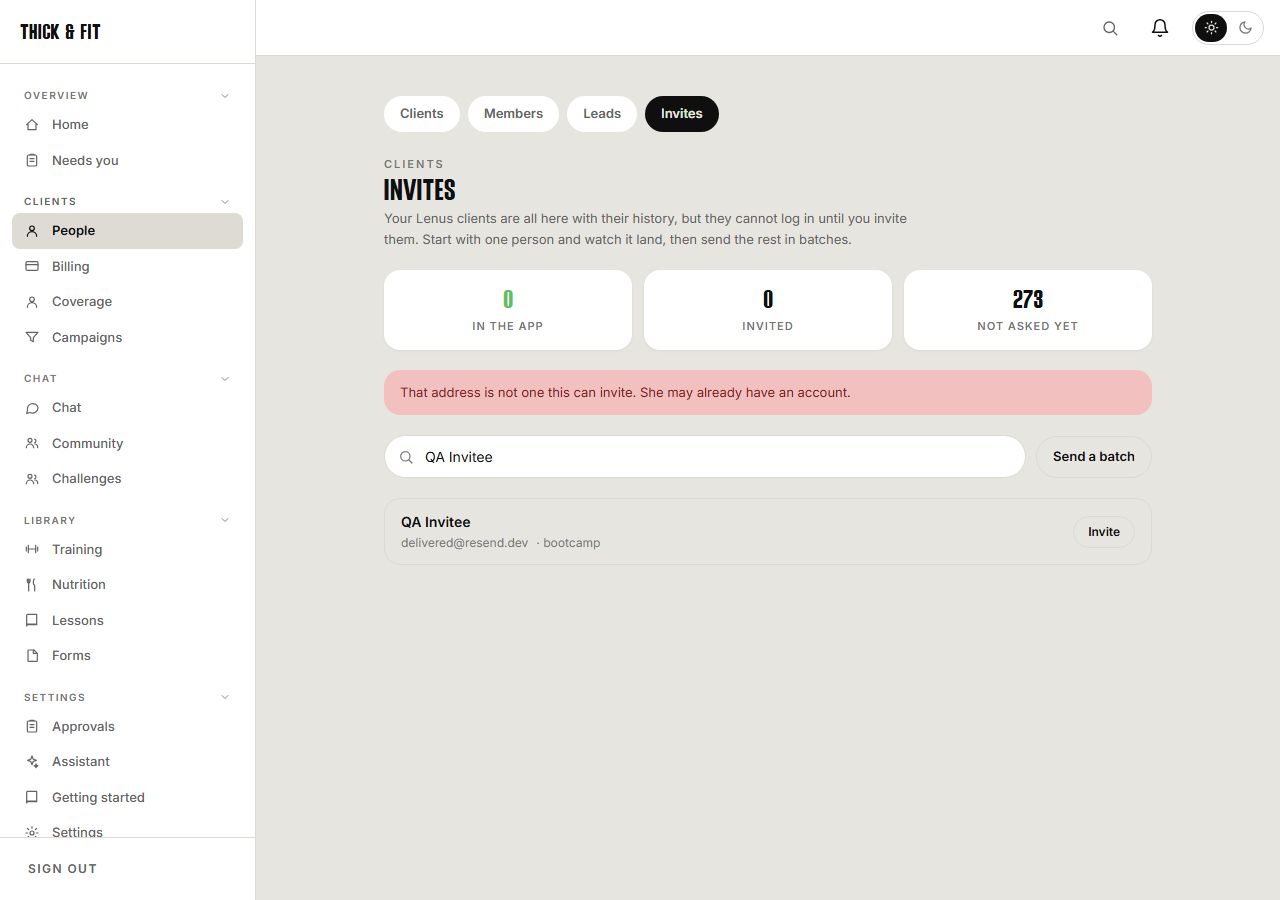
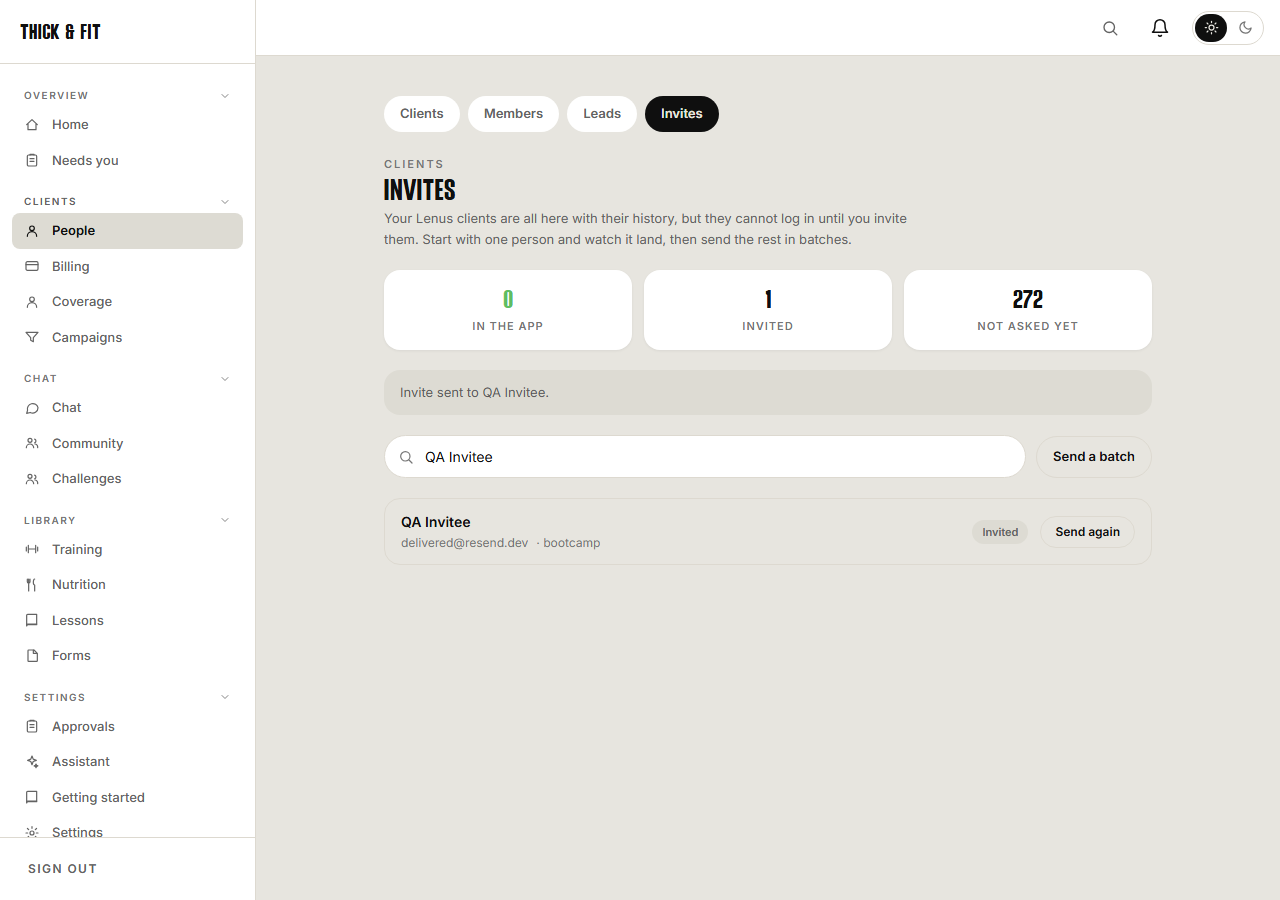
fix(audit): a launch action emailed a real client and recorded nobody
Testing the invite screen end to end surfaced this: the send genuinely worked, the email_send_log
row landed, the auth user was minted, and audit_log had NOTHING. The database trigger's own rows
from the same second landed normally, so the table was fine. The write was not.

logCoachAction is `void client.from(...).insert(...)`, the codebase's fire-and-forget convention.
That is fine for a log nobody will be asked about, and it is not fine on this platform for one
that matters: a floating promise created just before a serverless response returns can be killed
when the function freezes. This repo already learned that once (the `void notify()` pattern), and
the audit log is the one place it costs the most.

logCoachActionNow is the same write, awaited. One round trip. Used by both invite actions,
because "who emailed 272 clients, and how many" is exactly the question an audit log exists to
answer, and it is the Fort Knox anti-get-sued pillar this project is built to.

The existing fire-and-forget export stays for the cheap high-volume callers, now delegating to
the same function so the two cannot drift. Neither throws: an audit write that fails must not
take down the action it is recording, so it is loud instead of silent.

diff --git a/src/lib/coach/audit.ts b/src/lib/coach/audit.ts
@@ -17,18 +17,42 @@ export function logCoachAction(
     newState?: unknown;
   },
 ): void {
-  void client
-    .from('audit_log')
-    .insert({
-      company_id: params.companyId,
-      user_id: params.userId,
-      entity_type: params.entityType,
-      entity_id: params.entityId ?? null,
-      action: params.action,
-      previous_state: params.previousState ?? null,
-      new_state: params.newState ?? null,
-    })
-    .then(() => undefined, (e: unknown) => {
-      console.error('[audit_log] write failed', e instanceof Error ? e.message : e);
-    });
+  void writeAudit(client, params);
+}
+
+/**
+ * The same write, AWAITED.
+ *
+ * Fire-and-forget is fine for a log nobody will be asked about. It is not fine on this platform for
+ * one that matters: a floating promise created just before a serverless response is returned can be
+ * killed when the function freezes, and the write simply never happens. Measured, not assumed - an
+ * invite that really did send an email left NO audit row at all, while the database trigger's own
+ * rows from the same second landed normally.
+ *
+ * Use this for anything a person could later be asked to account for: money, access, deletion, or
+ * mail going out to real clients. It costs one round trip.
+ */
+export async function logCoachActionNow(
+  client: ServiceClient,
+  params: Parameters<typeof logCoachAction>[1],
+): Promise<void> {
+  await writeAudit(client, params);
+}
+
+async function writeAudit(
+  client: ServiceClient,
+  params: Parameters<typeof logCoachAction>[1],
+): Promise<void> {
+  const { error } = await client.from('audit_log').insert({
+    company_id: params.companyId,
+    user_id: params.userId,
+    entity_type: params.entityType,
+    entity_id: params.entityId ?? null,
+    action: params.action,
+    previous_state: params.previousState ?? null,
+    new_state: params.newState ?? null,
+  });
+  // Never throws. An audit write that fails must not take down the action it is recording; it must
+  // be loud instead, which is the whole reason this is not swallowed silently.
+  if (error) console.error('[audit_log] write failed', error.message);
 }

diff --git a/src/lib/legacy/invite-actions.ts b/src/lib/legacy/invite-actions.ts
@@ -5,7 +5,7 @@ import { revalidatePath } from 'next/cache';
 import { requireCoach } from '@/lib/auth/guards';
 import { createServiceClient } from '@/lib/supabase/service';
 import { inviteLegacyClients } from '@/lib/legacy/invite';
-import { logCoachAction } from '@/lib/coach/audit';
+import { logCoachActionNow } from '@/lib/coach/audit';
 
 /**
  * Sending real email to real people, from a button.
@@ -17,7 +17,9 @@ import { logCoachAction } from '@/lib/coach/audit';
  *   2. The batch will not exceed MAX_BATCH per call, whatever the form says.
  *   3. Confirmation is checked ON THE SERVER against the number of people it is about to email, so
  *      a mistyped or stale form cannot send to a larger set than the one that was confirmed.
- *   4. Every send is written to the coach audit log with who and how many.
+ *   4. Every send is written to the audit log with who and how many, AWAITED. Fire-and-forget
+ *      loses that row when the serverless function freezes, which is exactly what happened the
+ *      first time this was tested: the email genuinely sent and nothing recorded who sent it.
  *
  * inviteLegacyClients does the rest: it only ever selects legacy CLIENT contacts in this company
  * who have an email and have never claimed an account, so none of these can reach a lead, another
@@ -70,7 +72,7 @@ export async function inviteOneAction(formData: FormData): Promise<InviteActionR
     if (res.total === 0) {
       return { ok: false, sent: 0, failed: 0, message: 'notFound' };
     }
-    logCoachAction(createServiceClient(), {
+    await logCoachActionNow(createServiceClient(), {
       companyId: ctx.companyId,
       userId: ctx.userId,
       entityType: 'contact',
@@ -114,7 +116,7 @@ export async function inviteBatchAction(formData: FormData): Promise<InviteActio
     const origin = originFromHeaders(await headers());
     const res = await inviteLegacyClients(ctx.companyId, origin, { dryRun: false, limit: size });
 
-    logCoachAction(createServiceClient(), {
+    await logCoachActionNow(createServiceClient(), {
       companyId: ctx.companyId,
       userId: ctx.userId,
       entityType: 'contact',
